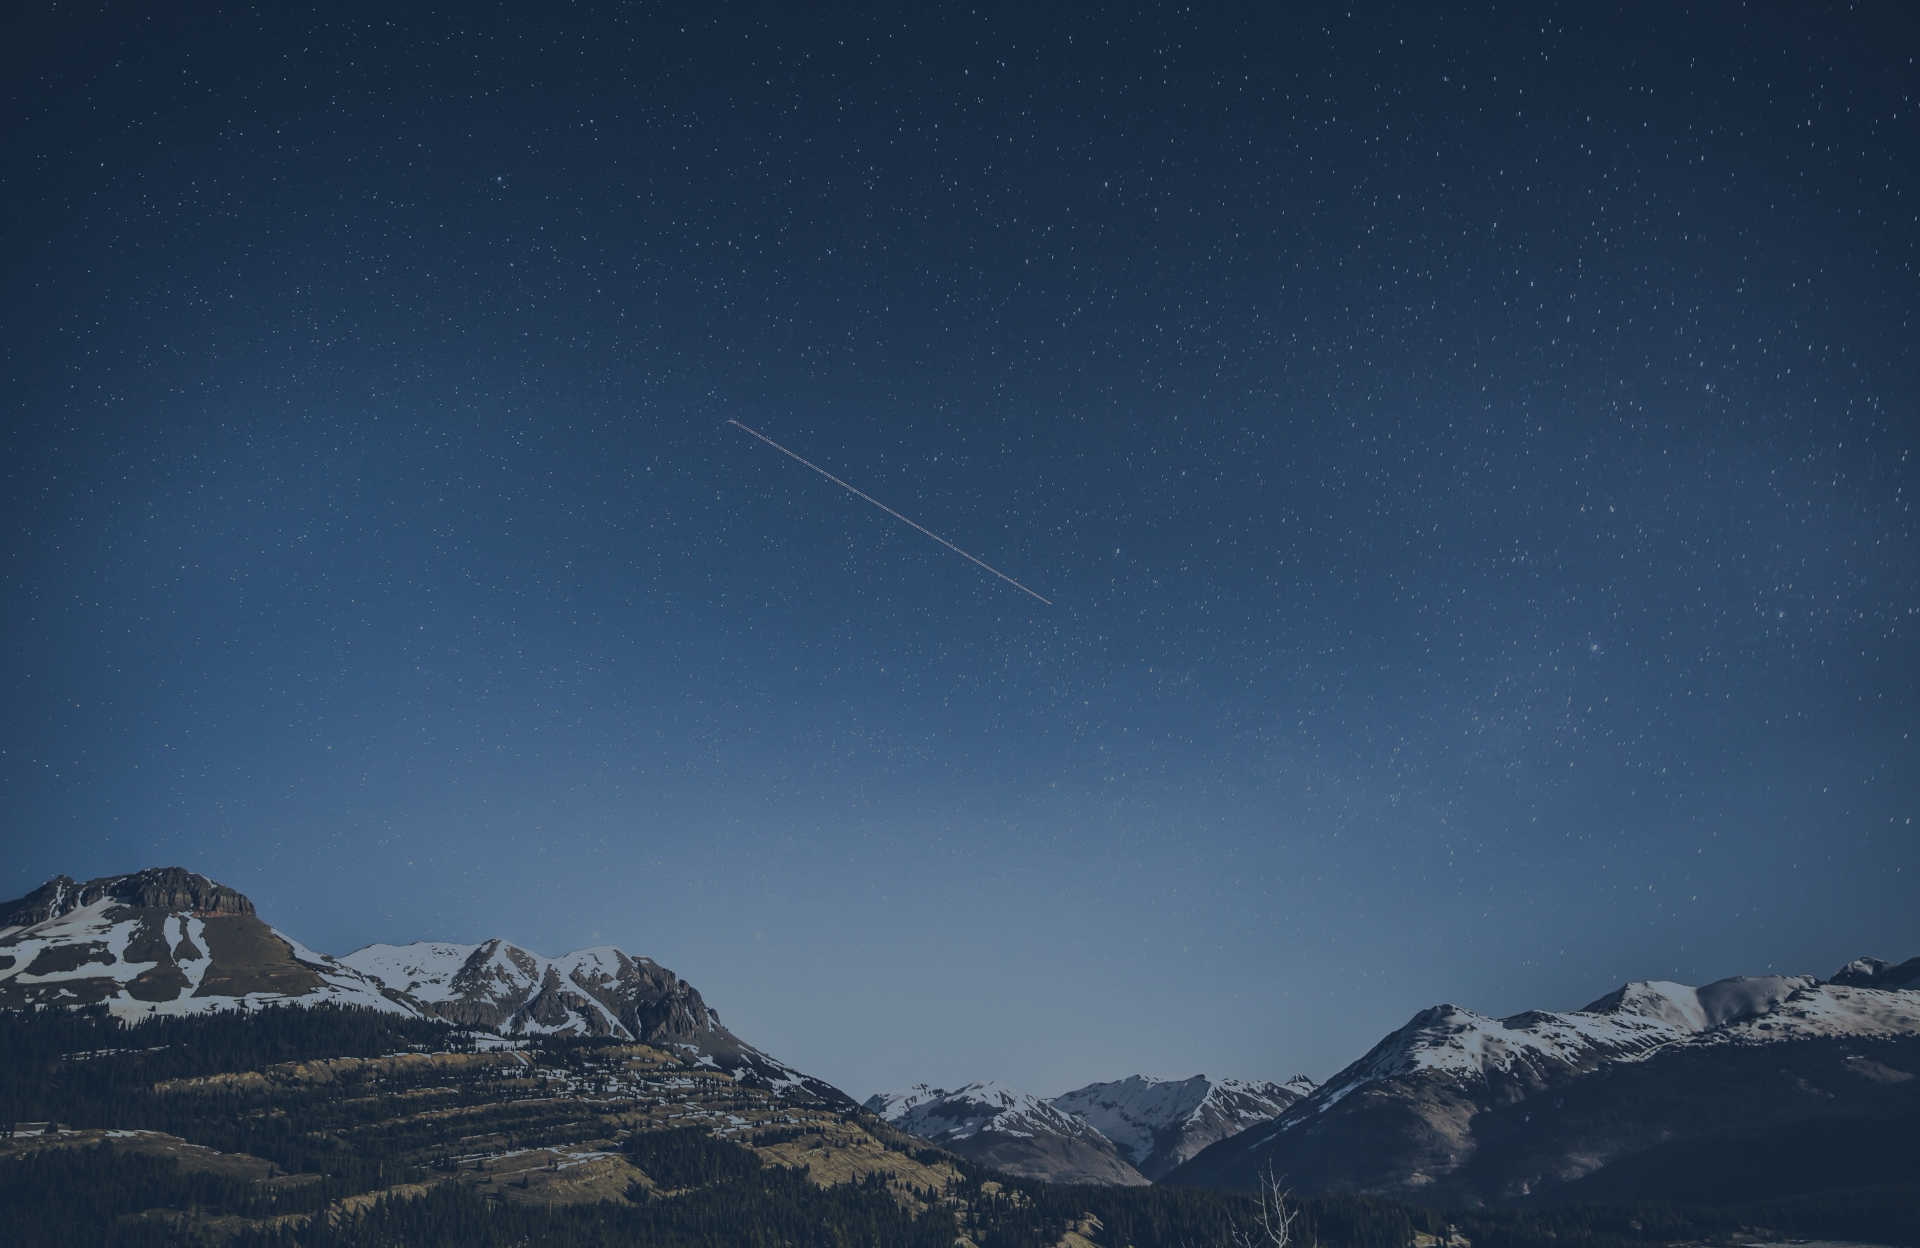
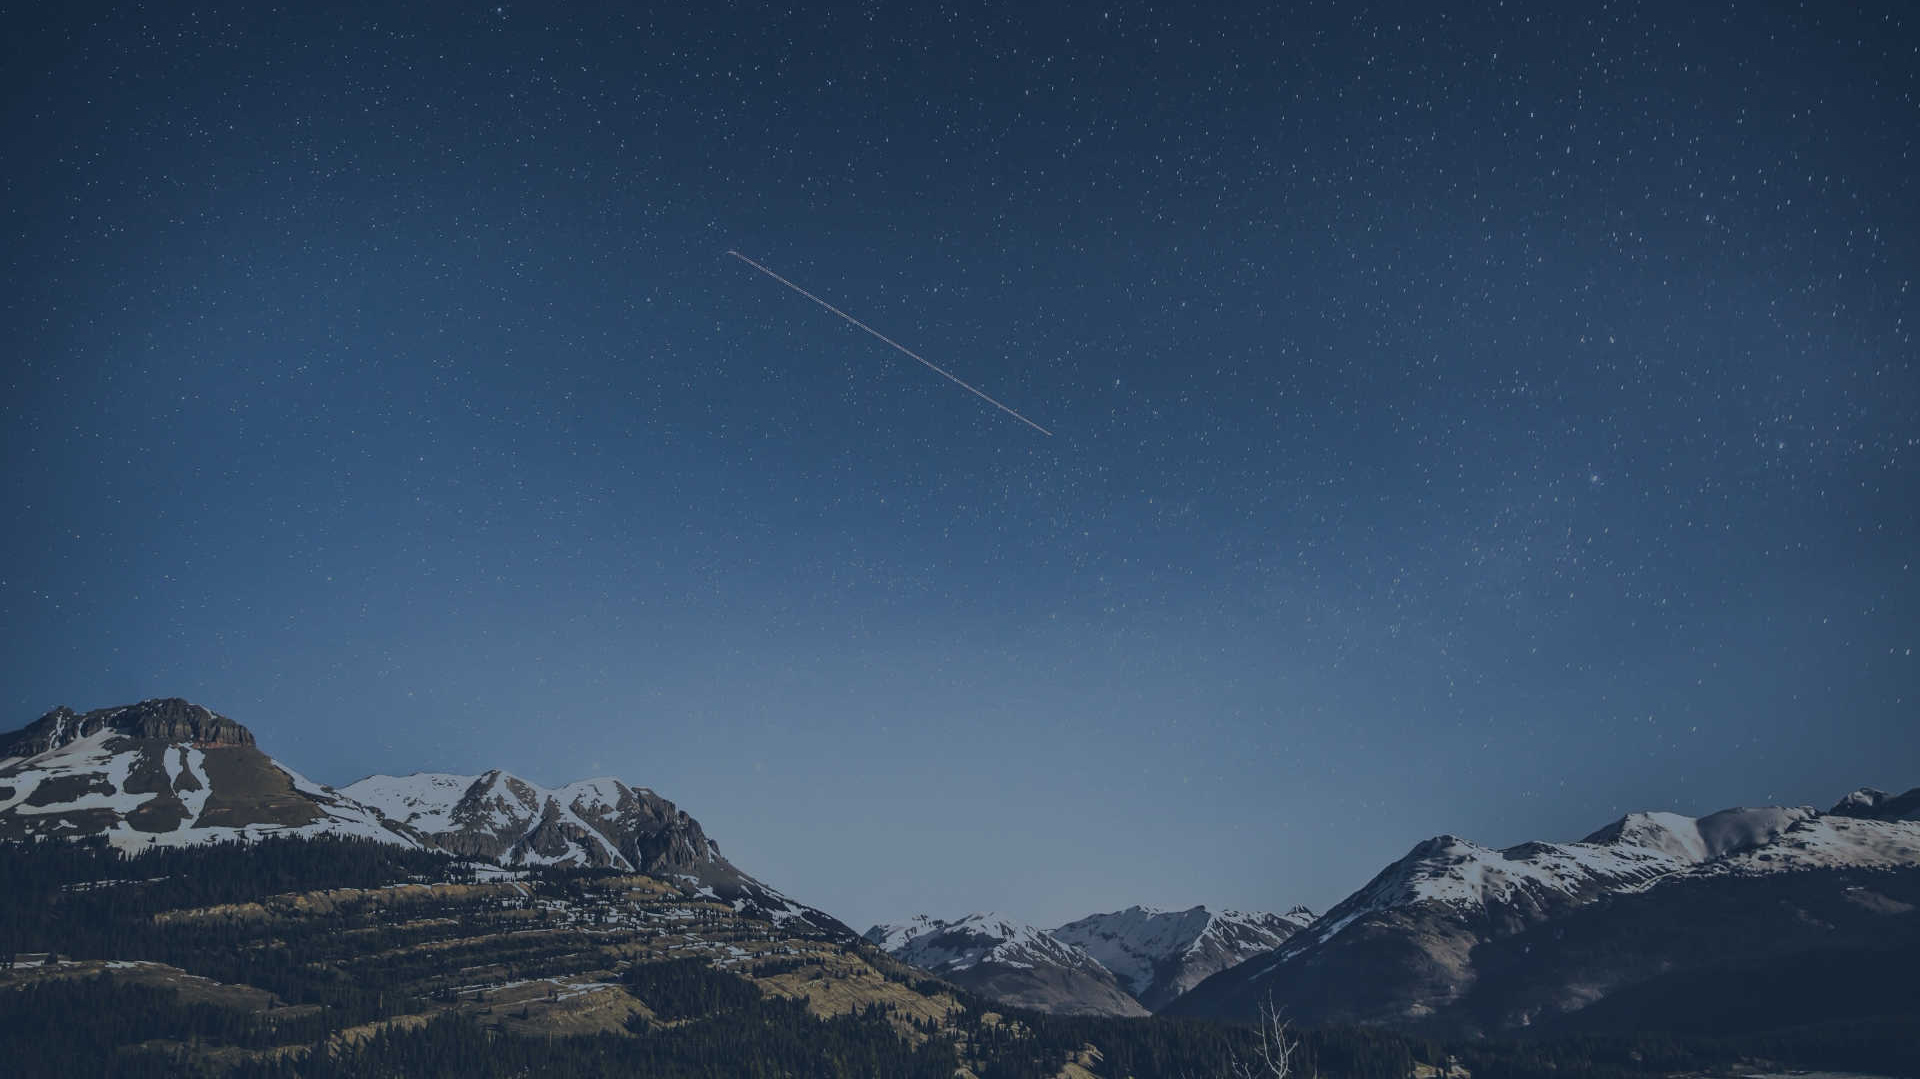
CSS Tweeks

diff --git a/src/app/login/login.component.css b/src/app/login/login.component.css
@@ -1,8 +1,5 @@
 .login-dark {
-    height:1000px;
-    background:#475d62 url("../../assets/star-sky.jpg");
-    background-size:cover;
-    position:relative;
+    
   }
   
   .login-dark form {
@@ -13,7 +10,7 @@
     border-radius:4px;
     transform:translate(-50%, -50%);
     position:absolute;
-    top:30%;
+    top:50%;
     left:50%;
     color:#fff;
     box-shadow:3px 3px 4px rgba(0,0,0,0.2);

diff --git a/src/styles.css b/src/styles.css
@@ -1,7 +1,7 @@
 /* You can add global styles to this file, and also import other style files */
 body {
-    height:1000px;
+    height: 100%;
     background:#475d62 url("./assets/star-sky.jpg");
-    background-size:cover;
-    position:relative;
+    background-size:     cover;                      /* <------ */
+    background-repeat:   no-repeat;
   }
